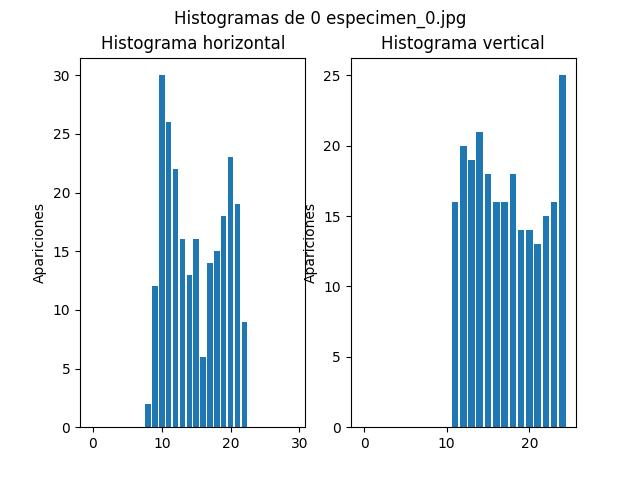
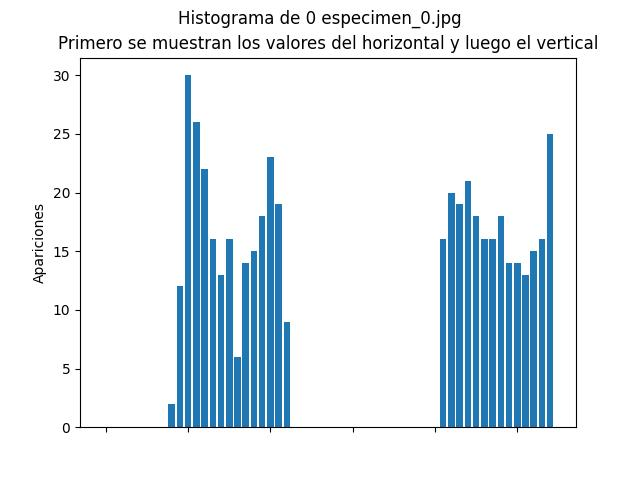
Arreglo histogramas

diff --git a/Histogramas.py b/Histogramas.py
@@ -32,7 +32,7 @@ def cargar_imagenes(carpeta, cantidad):
       
   return imagenes, nombres, carpetas
 
-def histograma(pixeles, imagen, color):
+def generarHistograma(pixeles, imagen, color):
   # se divide la cantidad de pixeles entre
   # porque la cantidad corresponde a un cuadrado
   # entonces si es 4 debemos hacer cada 2 filas
@@ -56,25 +56,23 @@ def histograma(pixeles, imagen, color):
   # numpy permite calcular la suma de columnas o filas
   # entonces aquí devolvemos el primer array es de las
   # filas y el segundo de las columnas
-  return np.sum(matrizHistograma, axis=1), np.sum(matrizHistograma, axis=0)
+  horizontal = np.sum(matrizHistograma, axis=1)
+  vertical = np.sum(matrizHistograma, axis=0)
+  return np.concatenate((horizontal, vertical))
 
-# Va mostrando los histogramas
-def mostrarGrafico(histogramas, titulos, nombre, carpeta):
-  # Esta primera parte permite mostrar todos los histogramas en
-  # una mismo ventana, o sea en este caso mostrar el histograma
-  # vertical y horizontal de un espécimen en una misma ventana
-  # en lugar de una ventana para cada uno
-  fig, ax = plt.subplots(1,len(histogramas))
-  for i in range(len(histogramas)):
+def mostrarGrafico(histograma, titulos, nombre, carpeta):
+  fig, ax = plt.subplots()
 
-    secciones = list(range(len(histogramas[i])))
+  secciones = list(range(len(histograma)))
 
-    ax[i].bar(secciones, histogramas[i])
+  ax.bar(secciones, histograma)
+  
 
-    ax[i].set_ylabel('Apariciones')
-    ax[i].set_title(titulos[i])
+  ax.set_ylabel('Apariciones')
+  ax.set_title(titulos)
     
-  fig.suptitle("Histogramas de " + carpeta + " " + nombre)
+  fig.suptitle("Histograma de " + carpeta + " " + nombre)
+  plt.xticks(color='w')
   plt.show()
   carpetaGuardado = os.path.join("Histogramas",carpeta)
   if not os.path.exists(carpetaGuardado):
@@ -83,27 +81,14 @@ def mostrarGrafico(histogramas, titulos, nombre, carpeta):
   fig.savefig(nombreGuardado)
 
 # Se puede usar el programa usando
-# python Histogramas.py <nombre de carpeta> <cantidad de imagenes x carpeta>
-# El primer parámetro es para el nombre de la carpeta donde están
-# las imágenes entonces es un string
-# El segundo parámetro es un número entero para decidir a cuantas
-# imagenes se les mostrará el histograma
-# Por defecto solo se muestra 1 imagen por carpeta
+# python Histogramas.py
 
 # La carpeta de especimenes debería tener la forma:
 # Especimenes/0/especimen.jpg
-def main():
-  carpetaImagenes = "Especimenes"
-  cantidadImagenes = 1
-  if len(sys.argv) >= 2:
-    carpetaImagenes = sys.argv[1]
-  if len(sys.argv) >= 3:
-    cantidadImagenes = int(sys.argv[2])
-  imagenes, nombres, carpetas = cargar_imagenes(carpetaImagenes, cantidadImagenes)
-  for i in range(len(imagenes)):
-    histogramas = histograma(4, imagenes[i], np.array([255,255,255]))
-    carpeta = carpetas[i].replace(os.path.join(carpetaImagenes,""),"")
-    mostrarGrafico(histogramas,["Histograma horizontal", "Histograma vertical"], nombres[i], carpeta)
-
-if __name__ == "__main__":
-   main()
+carpetaImagenes = "Especimenes"
+cantidadImagenes = 1
+imagenes, nombres, carpetas = cargar_imagenes(carpetaImagenes, cantidadImagenes)
+for i in range(len(imagenes)):
+  histograma = generarHistograma(4, imagenes[i], np.array([255,255,255]))
+  carpeta = carpetas[i].replace(os.path.join(carpetaImagenes,""),"")
+  mostrarGrafico(histograma,"Primero se muestran los valores del horizontal y luego el vertical", nombres[i], carpeta)
